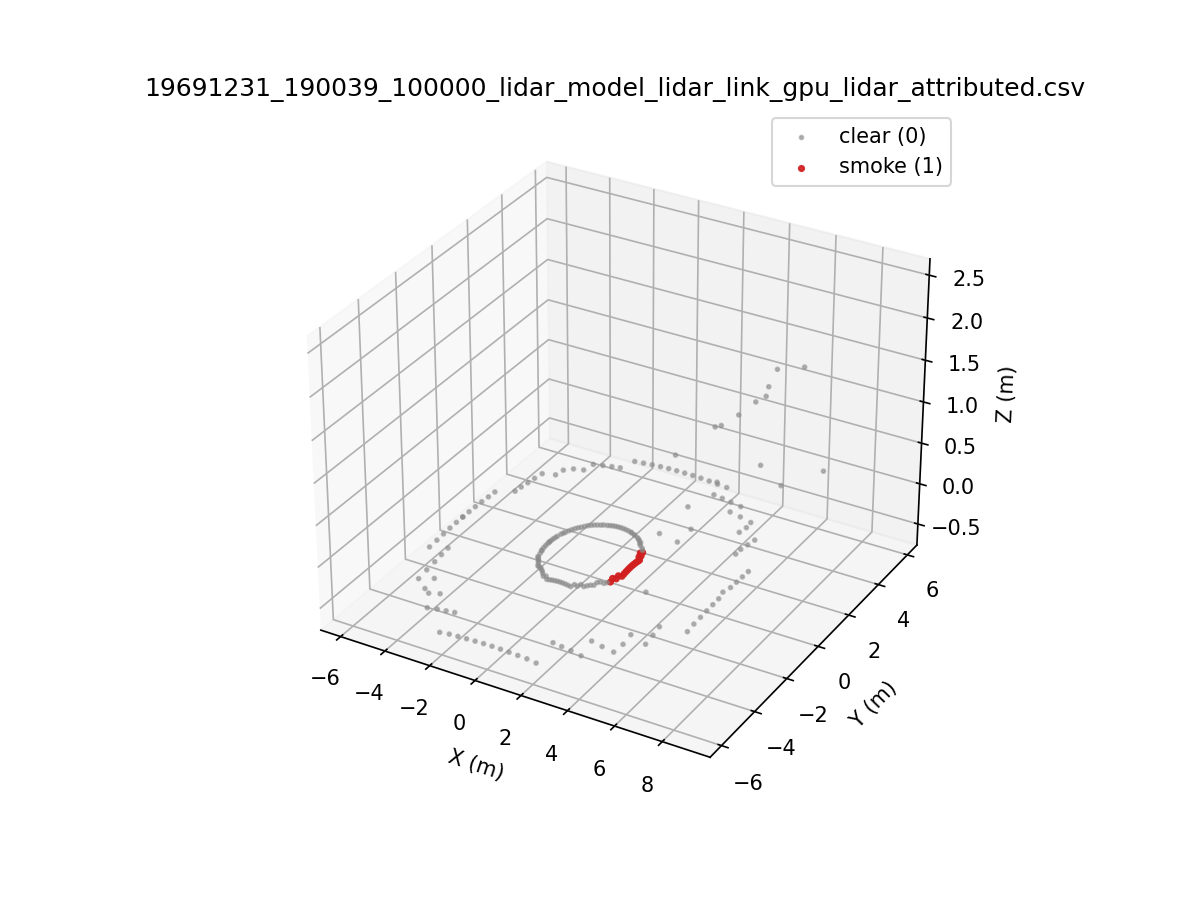
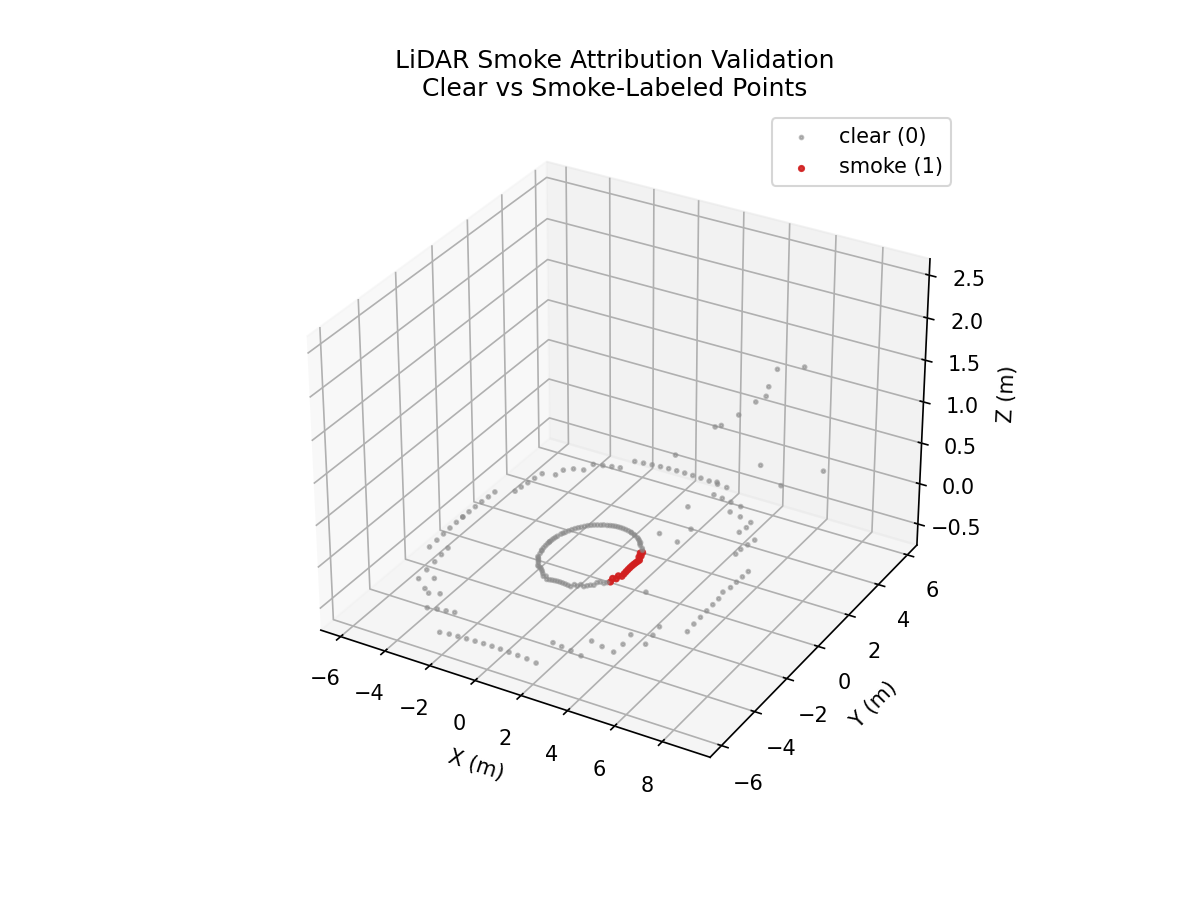
Update plot title for LiDAR smoke attribution validation to enhance clarity

Changed region(s): [[0.1233, 0.0622, 0.8942, 0.1244]]

diff --git a/smoke_attribution.py b/smoke_attribution.py
@@ -55,7 +55,7 @@ def plot_attribution(points, out_csv_path: str) -> None:
     ax.set_xlabel("X (m)")
     ax.set_ylabel("Y (m)")
     ax.set_zlabel("Z (m)")
-    ax.set_title(os.path.basename(out_csv_path))
+    ax.set_title("LiDAR Smoke Attribution Validation\nClear vs Smoke-Labeled Points")
     ax.legend(loc="upper right")
     fig.savefig(out_png_path, dpi=150)
     plt.close(fig)